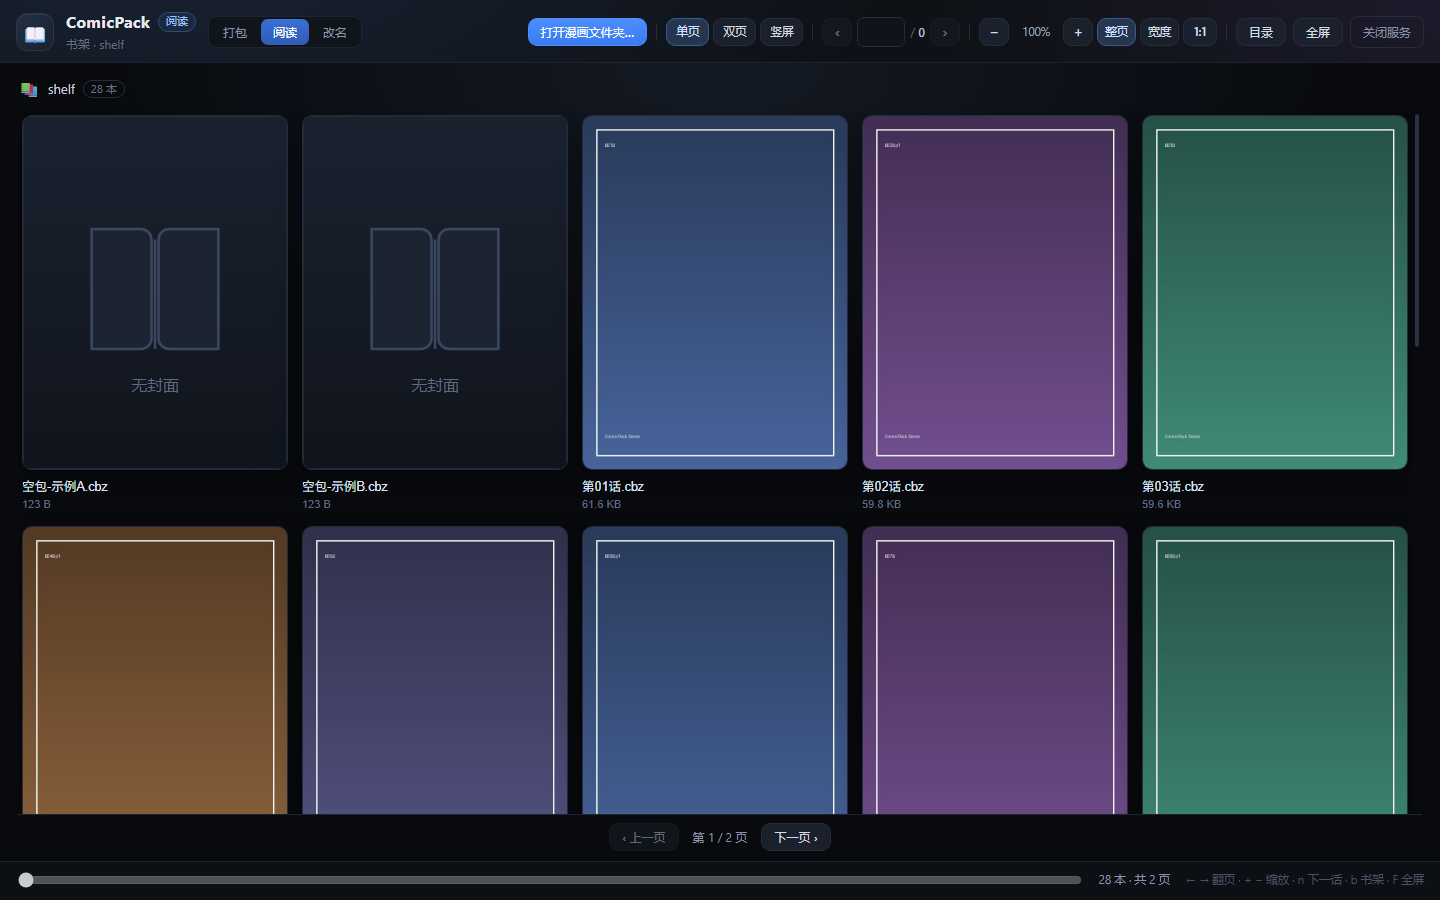
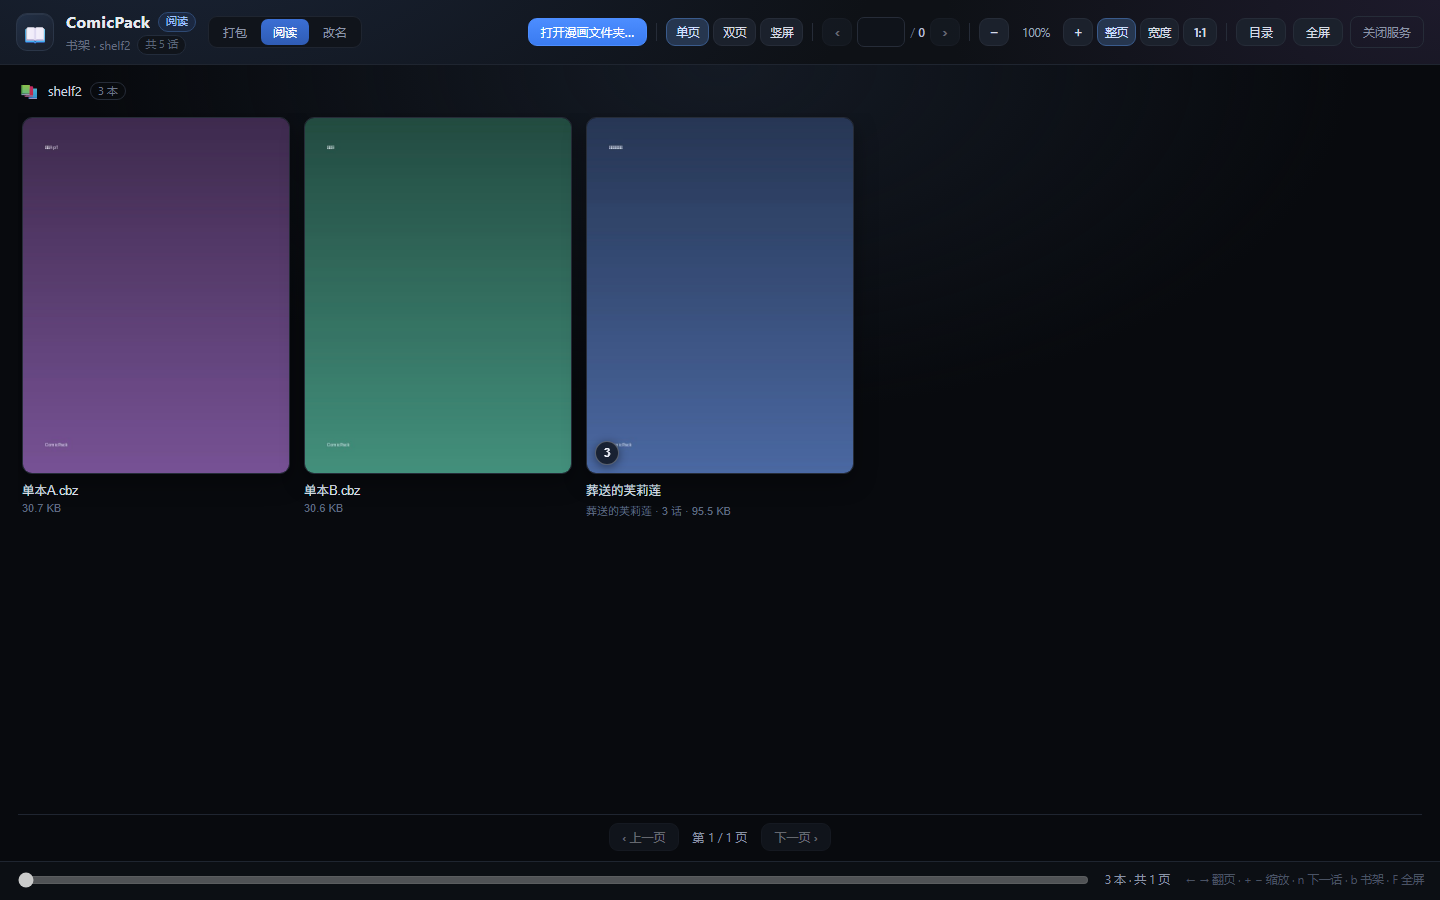
Group books that share one cover and show chapter counts
- shelf scan merges cbz/zip sharing the same sibling cover (one series, many
  chapter files) into a single card; the card takes the folder name and shows
  a circular count badge at the cover's bottom-left
- clicking the card opens the first chapter, and the chapter sidebar lists all
  of them, so "下一话" keeps working
- the header badge is now chapter-based: greyed "共 N 话" on the cover wall,
  highlighted "第 k/N 话" while reading (it used to show page count)
- tests: cover-sharing groups collapse into one card with ordered chapters

diff --git a/static/reader.js b/static/reader.js
@@ -199,8 +199,6 @@ async function openDoc(r) {
 
   $("#doc-name").textContent = r.name;
   $("#doc-name").title = r.path;
-  $("#doc-count").textContent = `共 ${r.page_count} 页`;
-  $("#doc-count").classList.remove("hidden");
   $("#page-total").textContent = r.page_count;
   $("#slider").max = String(r.page_count);
   $("#scroll").innerHTML = "";
@@ -256,6 +254,7 @@ async function loadShelf(path) {
       name: r.name,
       items: r.items || [],
       count: r.count || 0,
+      chapters: r.chapters || 0,
       folders: r.folders || 0,
     };
     state.shelfPage = shelfPageFor(r.path);
@@ -310,7 +309,7 @@ function renderShelf() {
 
   $("#doc-name").textContent = "书架 · " + (shelf.name || "");
   $("#doc-name").title = shelf.path;
-  $("#doc-count").classList.add("hidden");
+  setDocBadge(shelf.chapters ? `共 ${shelf.chapters} 话` : "", true);
   $("#page-meta").textContent = shelf.count
     ? `${shelf.count} 本 · 共 ${pages} 页`
     : "这个文件夹（含子文件夹）里没有 cbz / zip";
@@ -364,7 +363,19 @@ function bookCard(item) {
 
   const meta = document.createElement("div");
   meta.className = "shelf-meta";
-  meta.textContent = item.dir ? `${item.dir} · ${item.size_text}` : item.size_text;
+  const bits = [];
+  if (item.dir) bits.push(item.dir);
+  if (item.count > 1) bits.push(`${item.count} 话`);
+  bits.push(item.size_text);
+  meta.textContent = bits.join(" · ");
+
+  const badge = item.count > 1 ? document.createElement("span") : null;
+  if (badge) {
+    badge.className = "shelf-badge";
+    badge.textContent = String(item.count);
+    badge.title = `共 ${item.count} 话`;
+    coverBox.appendChild(badge);
+  }
 
   card.append(coverBox, name, meta);
   card.addEventListener("click", () => openBook(item));
@@ -402,12 +413,21 @@ function backToShelf() {
 }
 
 /* ---------------- 章节目录 ---------------- */
+function setDocBadge(text, muted) {
+  const el = $("#doc-count");
+  el.textContent = text || "";
+  el.classList.toggle("hidden", !text);
+  el.classList.toggle("muted", !!muted);
+}
+
+/* 阅读时徽章显示“话数”（之前显示的是页数） */
 function updateDocBadge() {
-  let text = `共 ${state.pages.length} 页`;
-  if (state.chapters.length > 1 && state.chapterIndex >= 0) {
-    text += ` · 第 ${state.chapterIndex + 1}/${state.chapters.length} 话`;
+  const total = state.chapters.length;
+  if (total > 1 && state.chapterIndex >= 0) {
+    setDocBadge(`第 ${state.chapterIndex + 1}/${total} 话`, false);
+  } else {
+    setDocBadge(`共 ${Math.max(1, total)} 话`, false);
   }
-  $("#doc-count").textContent = text;
 }
 
 function renderChapters() {
@@ -1012,6 +1032,7 @@ async function bootPath(path) {
       name: r.name,
       items: r.items || [],
       count: r.count || 0,
+      chapters: r.chapters || 0,
       folders: r.folders || 0,
     };
     state.shelfPage = shelfPageFor(r.path);

diff --git a/static/reader.css b/static/reader.css
@@ -33,6 +33,13 @@ body { overflow: hidden; }
   font-variant-numeric: tabular-nums;
 }
 
+/* 封面墙上的话数徽章：置灰，进入阅读才亮起来 */
+.doc-count.muted {
+  color: #5a6478;
+  border-color: #232c3b;
+  background: #10141b;
+}
+
 /* 导航胶囊样式复用 style.css 的 .nav */
 
 .tools {
@@ -551,6 +558,7 @@ body { overflow: hidden; }
 }
 
 .shelf-cover {
+  position: relative;
   aspect-ratio: 3 / 4;
   border-radius: 10px;
   overflow: hidden;
@@ -558,6 +566,28 @@ body { overflow: hidden; }
   border: 1px solid var(--line);
   box-shadow: 0 8px 22px rgba(0, 0, 0, .35);
   transition: transform .12s, border-color .15s, box-shadow .15s;
+}
+
+/* 一个封面对应多话时，左下角圆圈数字 */
+.shelf-badge {
+  position: absolute;
+  left: 8px;
+  bottom: 8px;
+  min-width: 24px;
+  height: 24px;
+  padding: 0 7px;
+  border-radius: 999px;
+  display: grid;
+  place-items: center;
+  font-size: 11.5px;
+  font-weight: 650;
+  color: #f3f6ff;
+  background: rgba(10, 14, 20, .78);
+  border: 1px solid rgba(255, 255, 255, .28);
+  box-shadow: 0 2px 10px rgba(0, 0, 0, .45);
+  backdrop-filter: blur(3px);
+  font-variant-numeric: tabular-nums;
+  pointer-events: none;
 }
 
 .shelf-card:hover .shelf-cover {

diff --git a/reader.py b/reader.py
@@ -150,16 +150,23 @@ def scan_library(root: str, max_depth: int = 8, max_books: int = 5000) -> dict:
                 except OSError:
                     continue
                 rel = os.path.relpath(full, base)
-                cover = "file" if _sibling_cover(full) else (
-                    "zip" if _zip_first_image_info(full) else "")
+                cover_path = _sibling_cover(full)
+                if cover_path:
+                    cover = "file"
+                elif _zip_first_image_info(full):
+                    cover = "zip"
+                else:
+                    cover = ""
                 items.append({
                     "name": fname,
                     "path": full,
                     "rel": rel,
                     "dir": os.path.dirname(rel) if os.path.dirname(rel) != "." else "",
+                    "folder": os.path.basename(dirpath),
                     "size": st.st_size,
                     "size_text": packer.human_size(st.st_size),
                     "cover": cover,
+                    "cover_path": cover_path,
                 })
                 if len(items) >= max_books:
                     break
@@ -171,13 +178,47 @@ def scan_library(root: str, max_depth: int = 8, max_books: int = 5000) -> dict:
     items.sort(key=lambda it: (it["rel"].count(os.sep),
                                packer.natural_key(it["dir"]),
                                packer.natural_key(it["name"])))
+
+    # 一个封面对应多本 cbz（同一部漫画的不同单元集）→ 合并成一张封面卡
+    groups = {}
+    for book in items:
+        if book["cover"] == "file":
+            key = ("cover", os.path.normcase(book["cover_path"]))
+        else:
+            key = ("book", os.path.normcase(book["path"]))
+        groups.setdefault(key, []).append(book)
+
+    shelf = []
+    for books in groups.values():
+        books.sort(key=lambda b: packer.natural_key(b["name"]))
+        first = books[0]
+        multi = len(books) > 1
+        total = sum(b["size"] for b in books)
+        shelf.append({
+            "name": first["folder"] if multi else first["name"],
+            "dir": first["dir"],
+            "rel": first["rel"],
+            "path": first["path"],                 # 点开先读第一话
+            "cover": first["cover"],
+            "count": len(books),                   # 这个封面对应几话
+            "size": total,
+            "size_text": packer.human_size(total),
+            "chapters": [{"name": b["name"], "path": b["path"]} for b in books],
+        })
+
+    shelf.sort(key=lambda it: (
+        0 if not it["dir"] else it["dir"].count(os.sep) + 1,
+        packer.natural_key(it["dir"]),
+        packer.natural_key(it["name"])))
+
     return {
         "ok": True,
         "kind": "shelf",
         "path": path,
         "name": os.path.basename(path.rstrip("\\/")) or path,
-        "items": items,
-        "count": len(items),
+        "items": shelf,
+        "count": len(shelf),
+        "chapters": sum(it["count"] for it in shelf),
         "folders": folders,
     }
 

diff --git a/tests/test_core.py b/tests/test_core.py
@@ -201,6 +201,28 @@ class LibraryTest(unittest.TestCase):
 
             self.assertIsNone(reader.cover_bytes(os.path.join(tmp, "note.txt")))
 
+    def test_same_cover_groups_chapters(self):
+        """一个封面对应多本 cbz：封面墙只出现一张，count 就是话数。"""
+        with workdir() as tmp:
+            folder = os.path.join(tmp, "葬送的芙莉莲")
+            os.makedirs(folder)
+            for name in ("第01话.cbz", "第02话.cbz", "第10话.cbz"):
+                self._make_cbz(folder, name)
+            with open(os.path.join(folder, "cover.jpg"), "wb") as fh:
+                fh.write(JPG)
+
+            res = reader.scan_library(tmp)
+            self.assertTrue(res["ok"], res)
+            self.assertEqual(res["count"], 1)          # 只出现一张封面
+            self.assertEqual(res["chapters"], 3)
+
+            group = res["items"][0]
+            self.assertEqual(group["name"], "葬送的芙莉莲")
+            self.assertEqual(group["count"], 3)
+            self.assertEqual([c["name"] for c in group["chapters"]],
+                             ["第01话.cbz", "第02话.cbz", "第10话.cbz"])
+            self.assertTrue(group["path"].endswith("第01话.cbz"))   # 点开先读第一话
+
     def test_empty_shelf(self):
         with workdir() as tmp:
             res = reader.scan_library(tmp)

diff --git a/README.md b/README.md
@@ -50,9 +50,18 @@
 - 有配套封面图就用封面：同目录的 `同名.jpg/png`，或 `cover.* / poster.* / 封面.*`
 - 没有封面就用包内第一页当封面
 - 连图都没有（空包 / 坏包）就显示内置的默认封面 SVG
-- 每页 25 本，底部「上一页 / 下一页」翻页；左上角显示文件夹名和总数
+- **一个封面对应多本 cbz**（同一部漫画的不同单元集）时只出现一张封面卡，
+  左下角用圆圈数字标出话数，标题用文件夹名
+- 每页 25 张封面，底部「上一页 / 下一页」翻页；左上角显示文件夹名和总数
 - 点封面进入阅读；阅读页左上角有 **「‹ 书架」**，点了回到封面墙
 - **回书架会停在原来那一页**（每页页码按文件夹记在 localStorage，刷新也不丢）
+
+顶栏文件名的徽章平时（封面墙）显示灰色的话数，**进入阅读才亮起**：
+
+| 界面 | 徽章 |
+| --- | --- |
+| 封面墙 | `共 12 话`（置灰） |
+| 阅读中 | `第 3/12 话`（高亮） |
 
 选择文件夹用的是应用内弹窗（不依赖系统对话框），可以粘路径、切盘符、上一级：
 
@@ -65,7 +74,7 @@
 - **左侧**「目录」按文件名**自然排序**列出同目录的所有包（`第1话 < 第2话 < 第10话`），当前这本高亮
 - 点任意一章立即切换；底部「上一话 / 下一话」或直接按 `n` 看下一话
 - 每话的阅读进度单独记录，切回来还停在原来那一页
-- 顶栏徽章会显示「共 N 页 · 第 2/15 话」，方便知道读到第几本
+- 顶栏徽章显示「第 2/15 话」，方便知道读到第几本
 - 窗口窄或想专心看图时，点顶栏「目录」可以收起侧边栏（状态会记住）
 
 ### 三种阅读模式
@@ -78,7 +87,7 @@
 
 ![](docs/ui-reader-scroll.png)
 
-顶栏始终显示 **共 N 页** 与当前页码，底栏有整本进度条。
+顶栏徽章显示当前是第几话，页码进度看顶部页码框和底部滑杆。
 
 - 翻页：`←` `→`、`PageUp` / `PageDown`、空格、滚轮（未放大时）
 - 缩放：`+` / `-`，`Ctrl + 滚轮`，或点「整页 / 宽度 / 1:1」
@@ -165,8 +174,8 @@ python -m unittest discover -s tests -v
 ```
 
 覆盖自然排序、零填充、打包产物结构、删除原图（含“只删图片不动其它文件”）、
-包内页顺序、文件夹阅读、封面墙（递归扫描 / 同名封面 / 包内首图 / 默认封面）、章节列表与序号、
-选择弹窗的目录列举（盘符 / 文件夹 / cbz 过滤）、视频改名解析（各站命名 / 纯数字 / 连播）、
+包内页顺序、文件夹阅读、封面墙（递归扫描 / 同名封面 / 包内首图 / 默认封面 / 同封面合并成一张卡）、
+章节列表与序号、选择弹窗的目录列举（盘符 / 文件夹 / cbz 过滤）、视频改名解析（各站命名 / 纯数字 / 连播）、
 改名执行与冲突跳过、坏包/空包、阅读会话上限，以及 HTTP 层的打开 / 取页 / 越界 404 /
 封面墙扫描与封面取图 / 改名。
 
